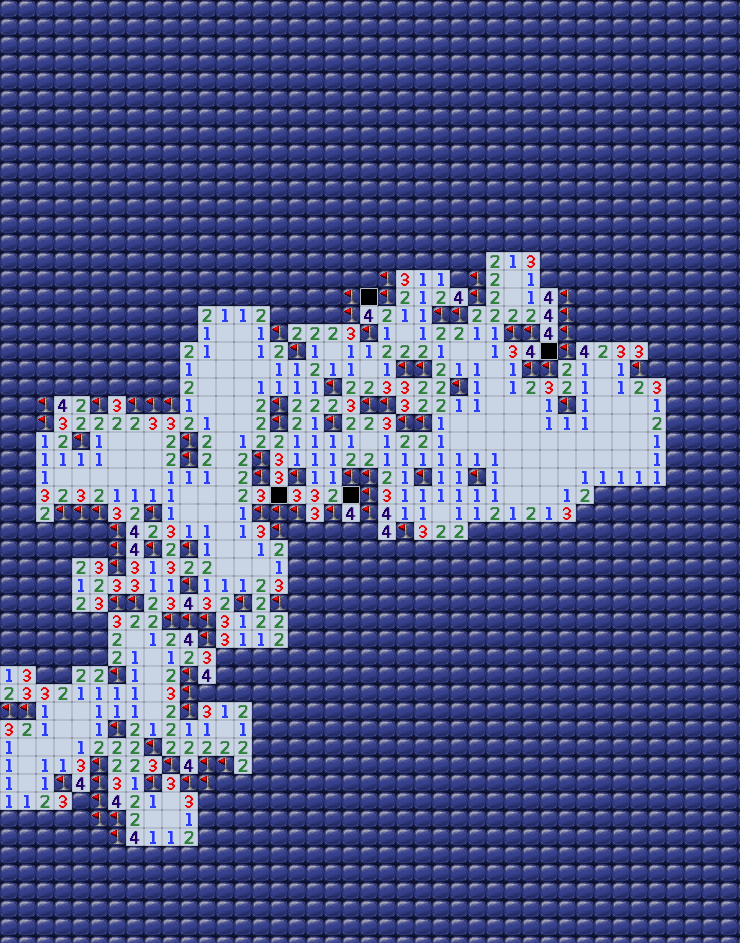
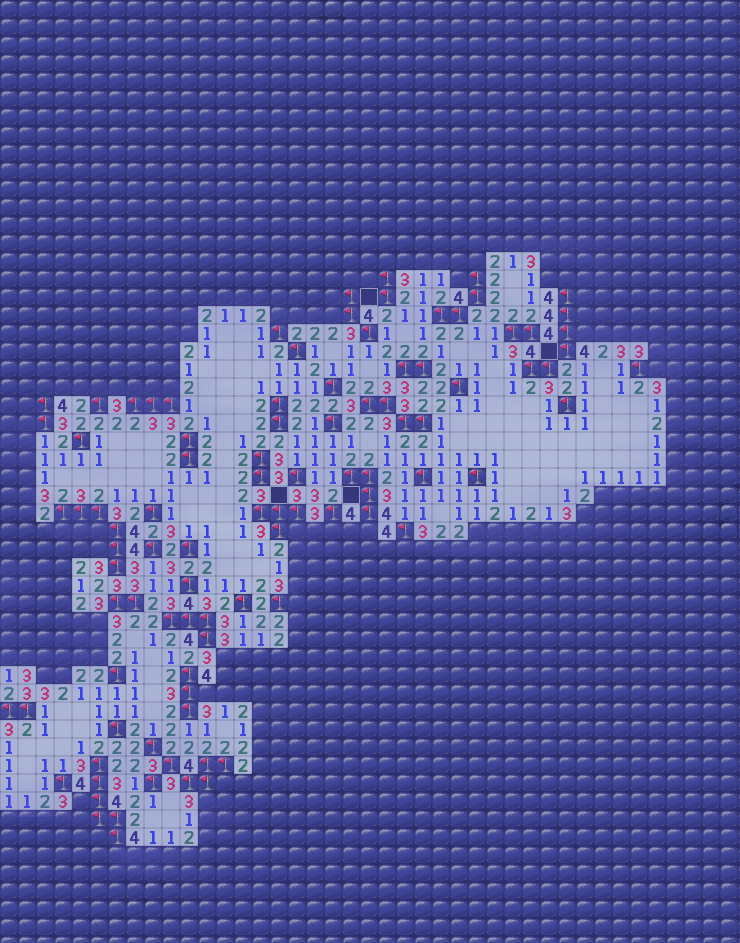
minesweeper up
New icon and tema na glavnom menu

diff --git a/index.html b/index.html
@@ -22,7 +22,7 @@ background: #1a124a;
 background: linear-gradient(315deg, rgba(0, 51, 171, 0.39) 28%, rgba(239, 250, 255, 0.212)), url("KABOOM.png");
 
            background-attachment: fixed;
-            color: rgb(38, 41, 48);
+            color: rgb(230, 237, 255);
         font-family: "Yeseva One", serif;
   font-weight: 400;
   font-style: normal;
@@ -37,7 +37,7 @@ background: linear-gradient(315deg, rgba(0, 51, 171, 0.39) 28%, rgba(239, 250, 2
             
          margin: 0 auto; /* Centers the container itself if needed */
          /* margin-top: 10px; */
-      border: 5px solid #272e86;
+      border: 5px solid #7175c9;
       padding: 20px;
         }
         p {
